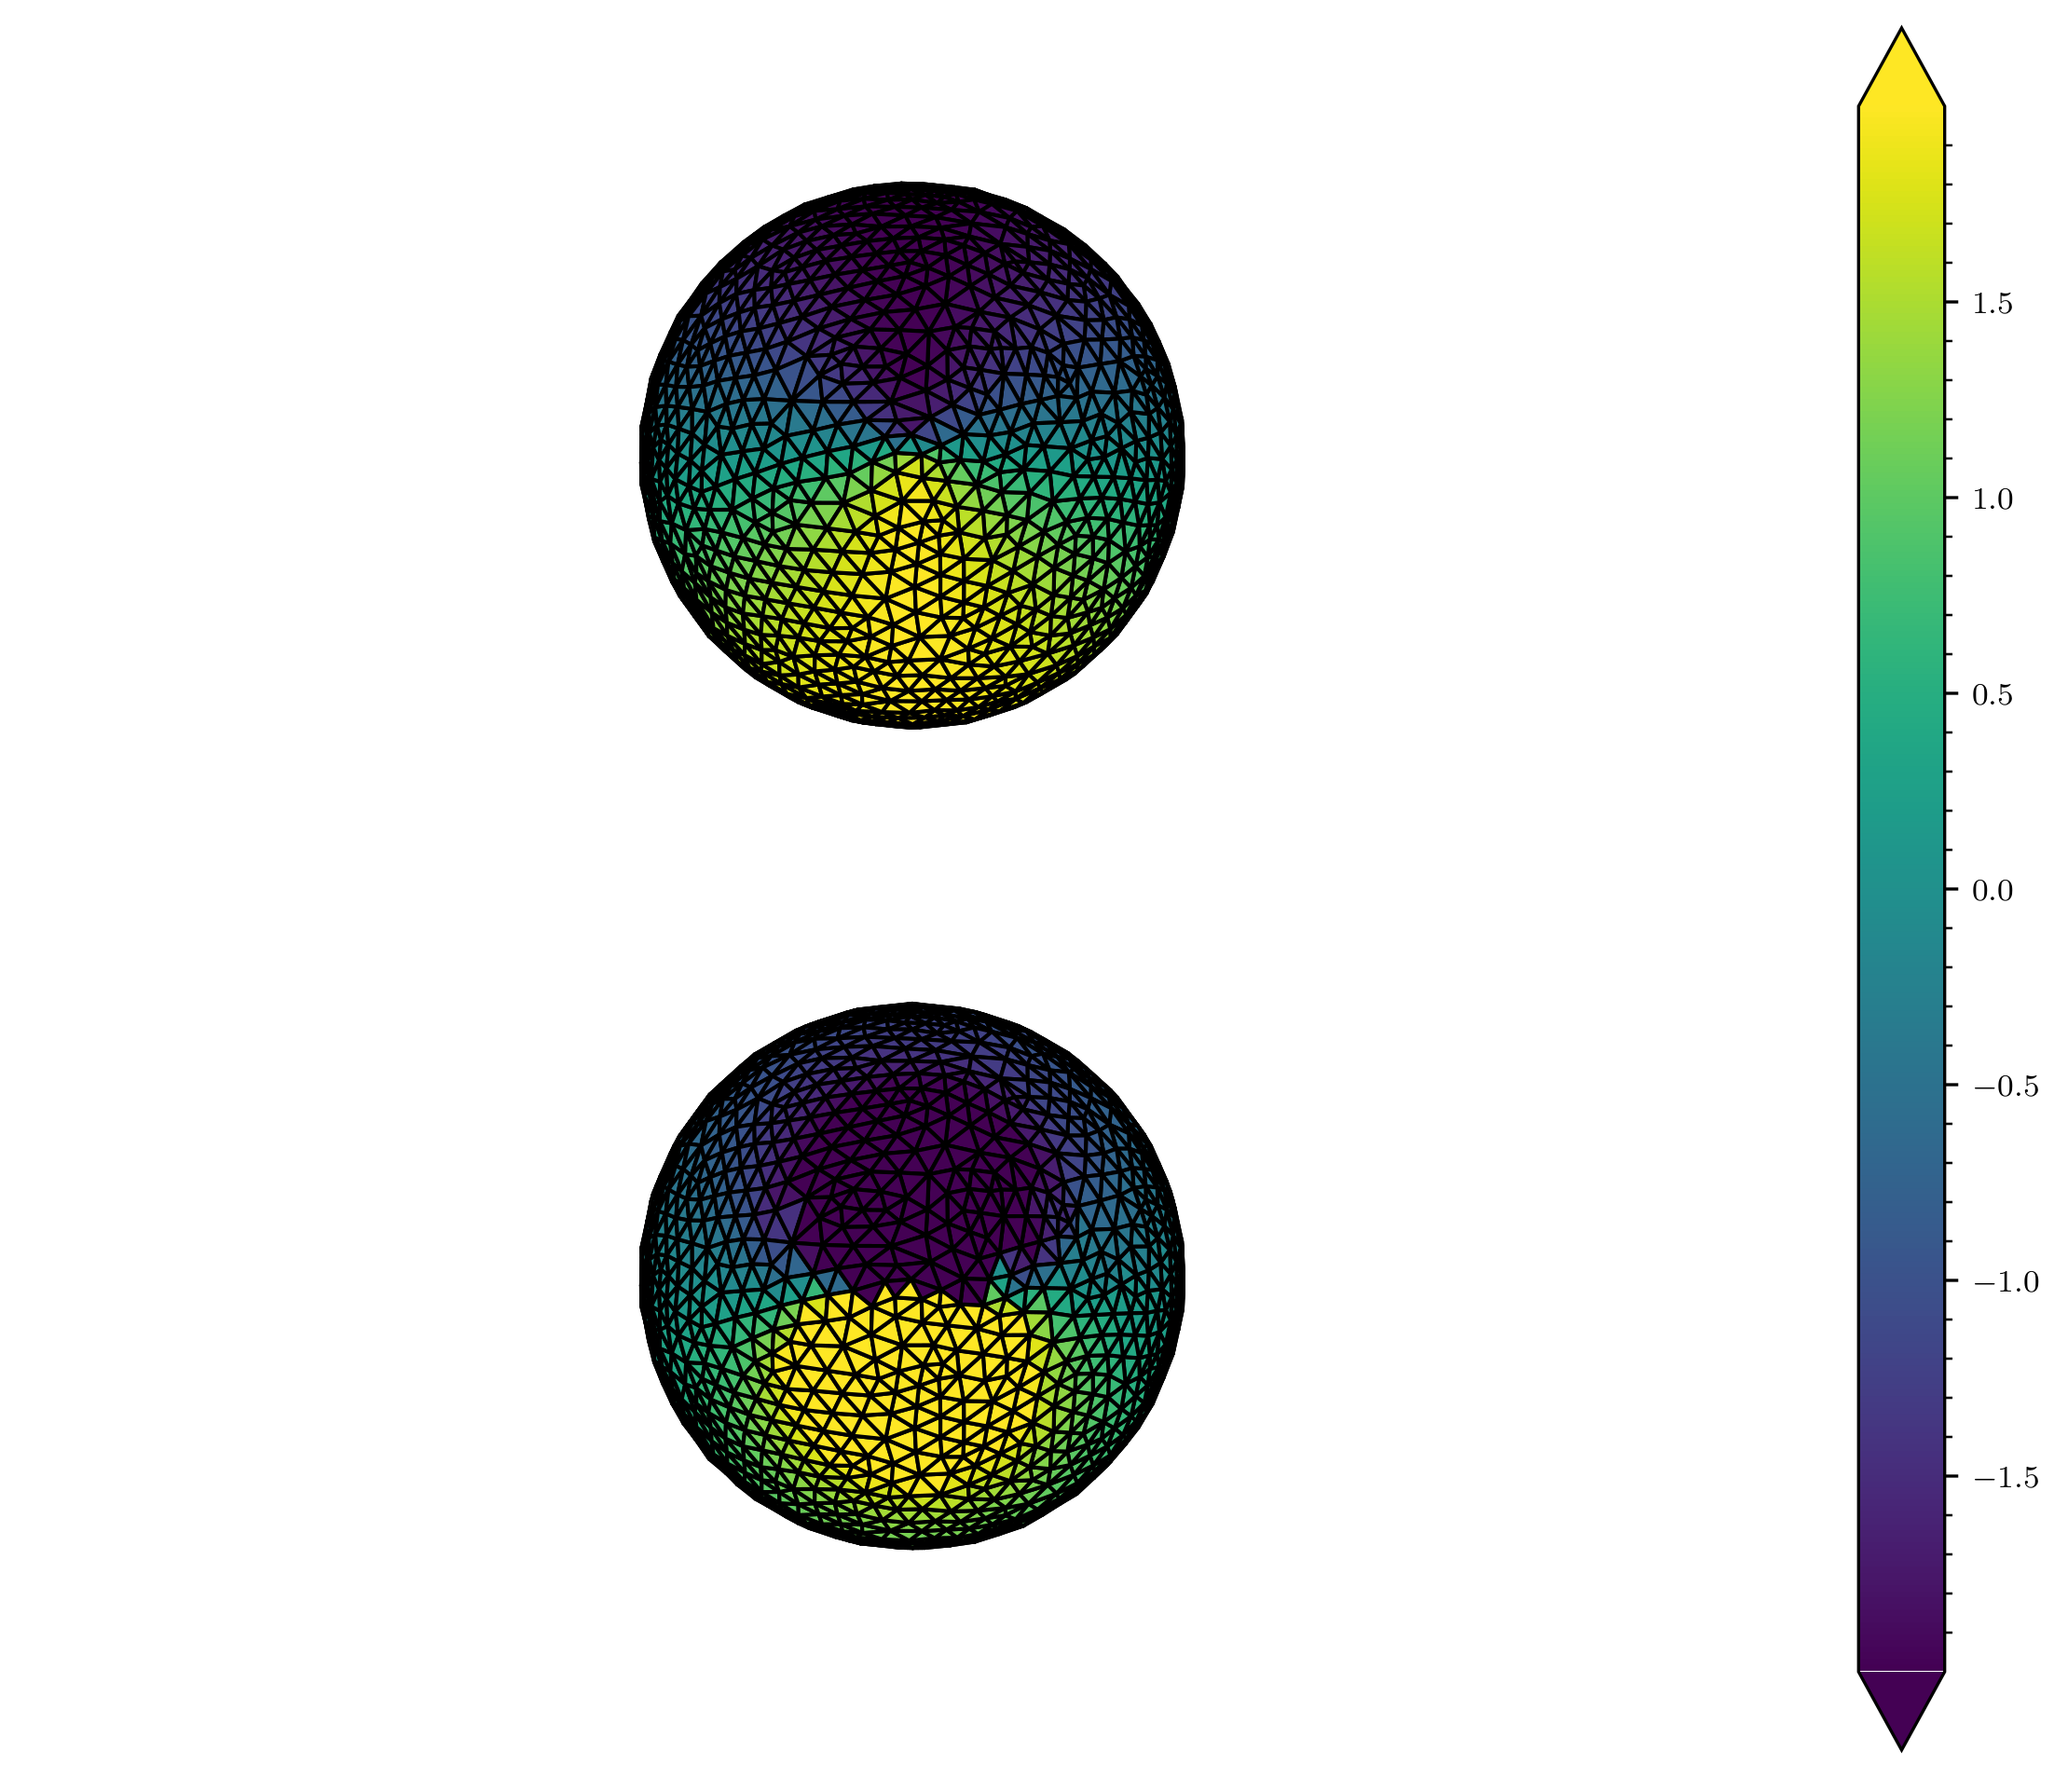
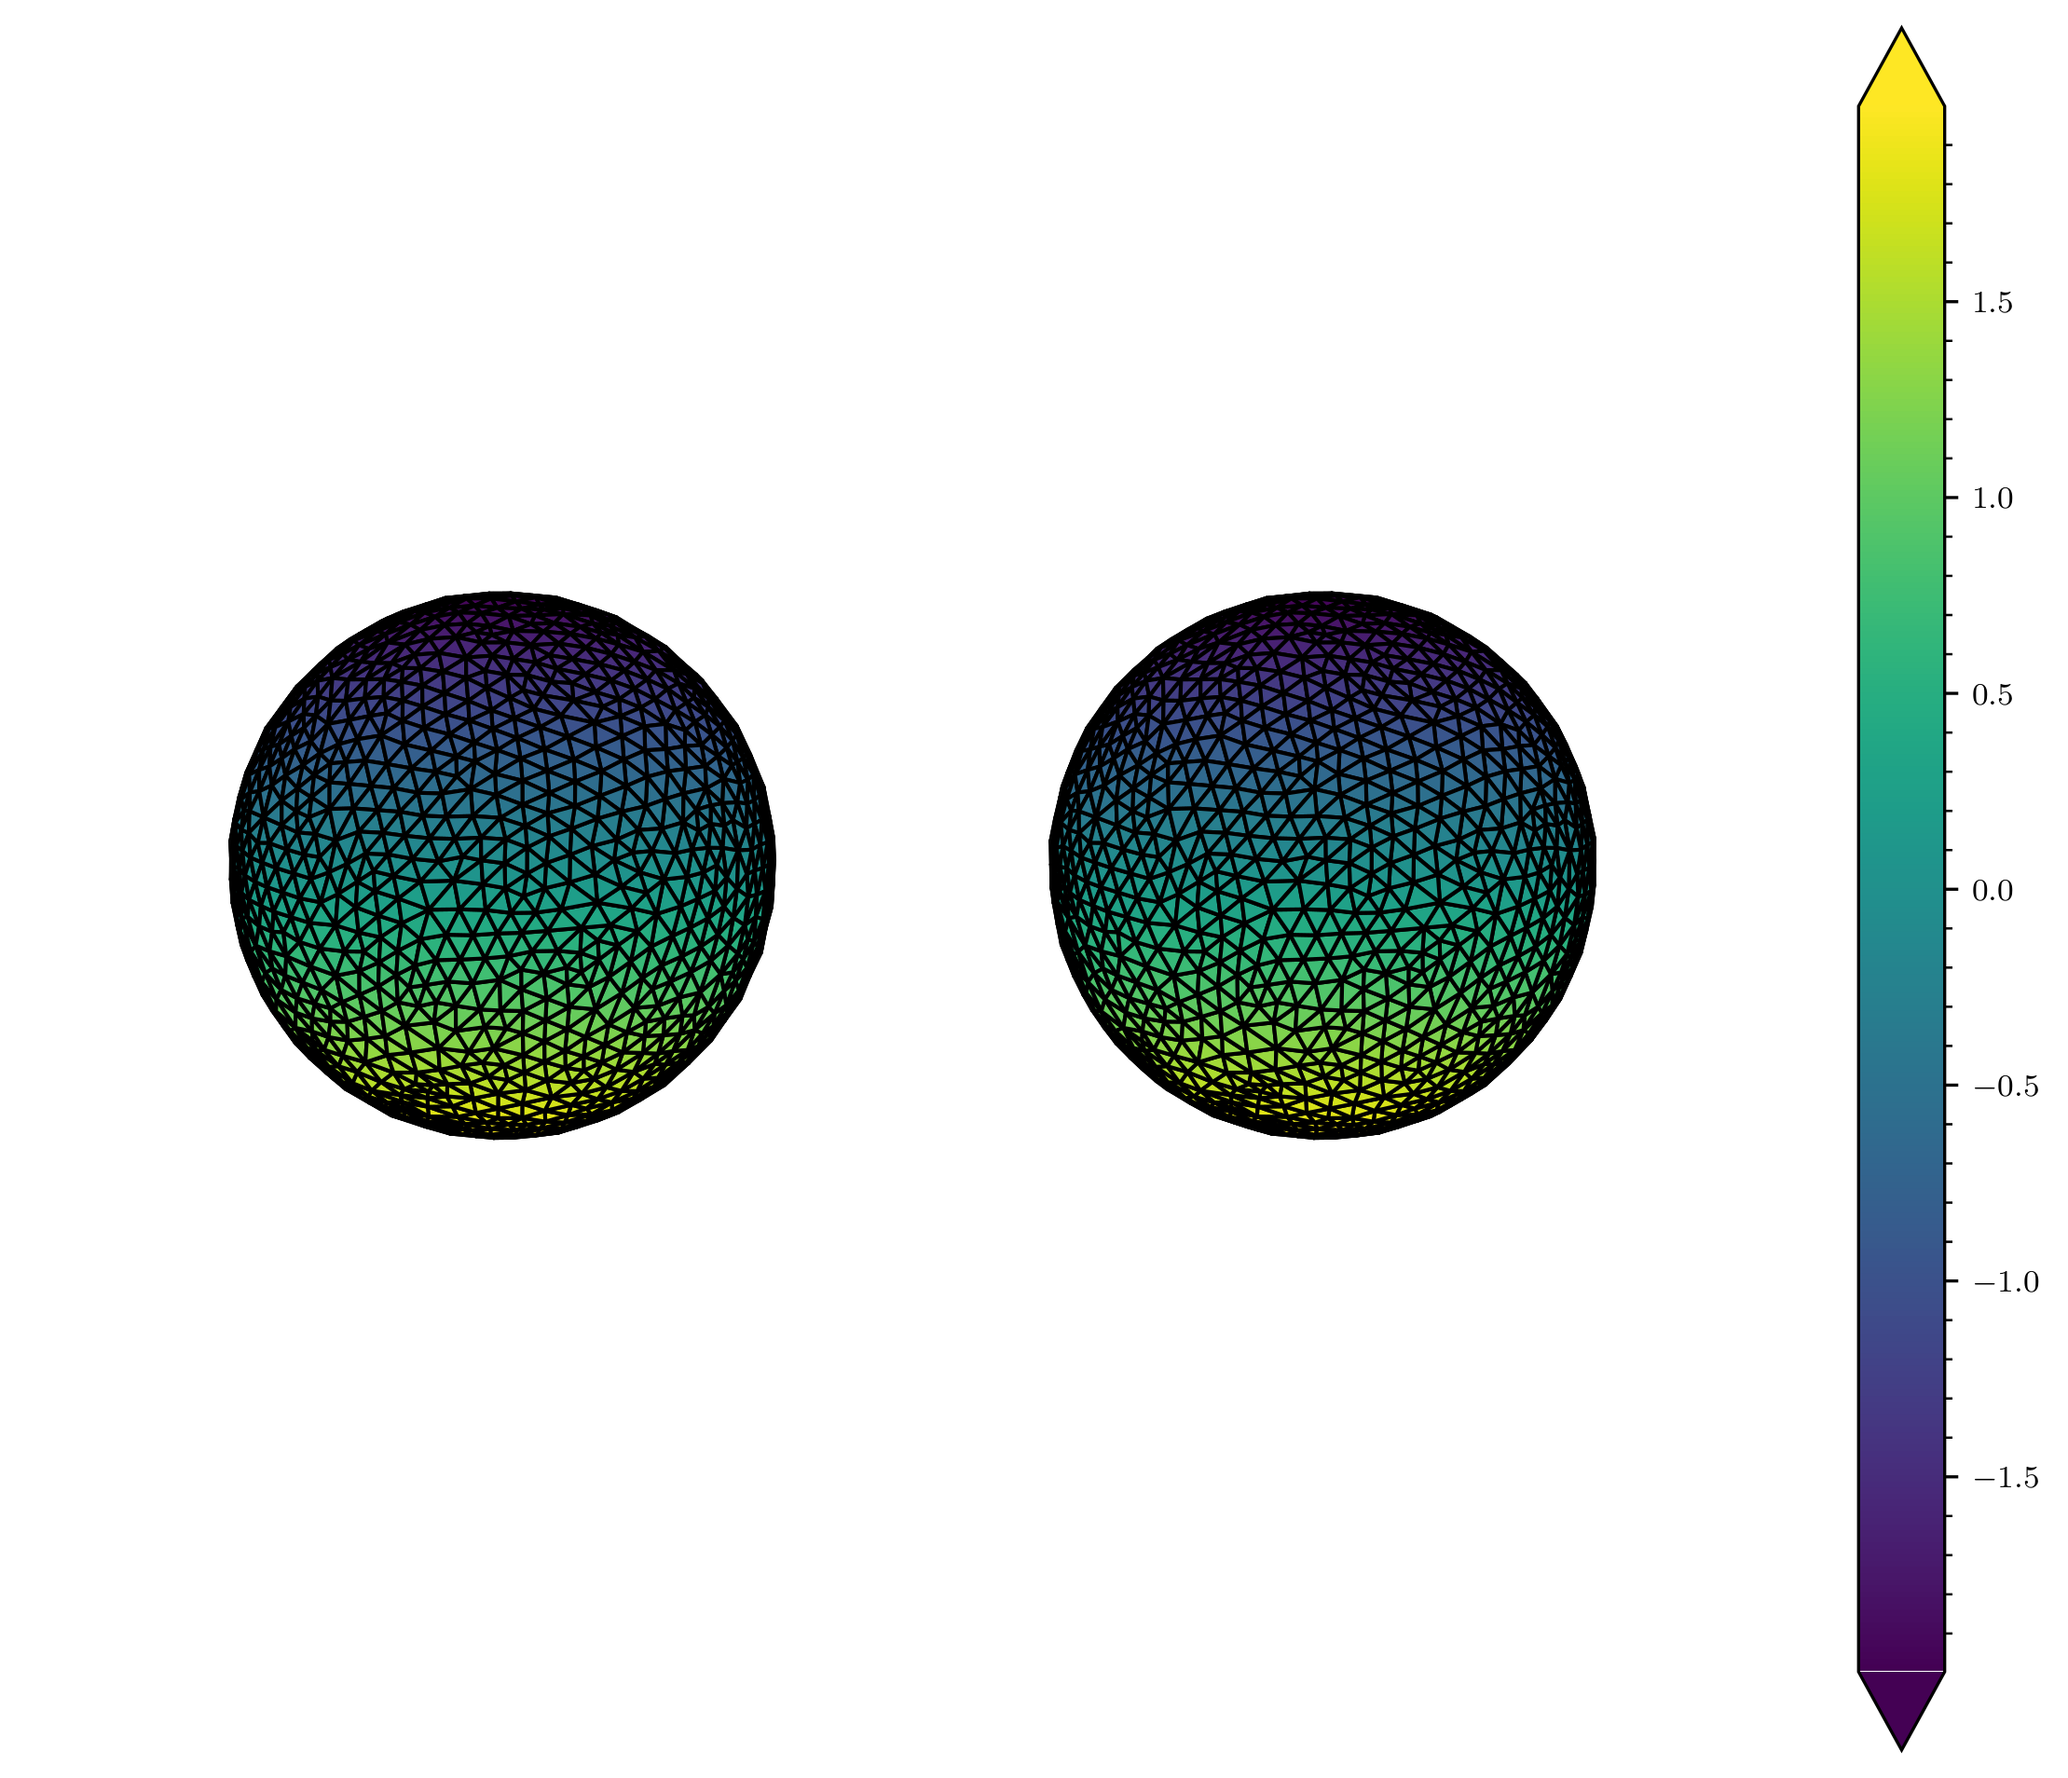
re run example after fix geometric_tools

Changed region(s): [[0.0933, 0.0928, 0.7774, 0.8968]]

diff --git a/examples/cotan.py b/examples/cotan.py
@@ -36,9 +36,7 @@ M = sl.mass(operators.mixed).tocsc()
 S = sl.stiffness(operators.cotan)
 L = sp.sparse.linalg.inv(M) @ S
 
-Plotter.set_export()
-
-p = Plotter(False, figsize=(10,8))
+p = Plotter(figsize=(10,8))
 p.add_trisurf(
     np.asarray(model.vertices),
     np.asarray(model.triangles),
@@ -56,7 +54,7 @@ p.add_trisurf(
     vmax=lf.max(),
     translate=(3,0,0)
 )
-p.camera(view=(-90,0,0), zoom=1.),
+p.camera(view=(0,90,0), zoom=1.),
 p.save(folder='figs/', name=filename)
 
 Plotter.show()

diff --git a/examples/null.py b/examples/null.py
@@ -8,8 +8,6 @@ from geometric_plotter import Plotter
 from isotropic_remesher import IsotropicRemesher
 import pathlib 
 
-Plotter.set_export()
-
 filename = pathlib.Path(__file__).stem
 
 path = pathlib.Path('data/mesh.npz')
@@ -41,7 +39,7 @@ L = sp.sparse.linalg.inv(M) @ S
 lf = L@f
 vmin, vmax = lf.min(), lf.max()
 
-p = Plotter(False, figsize=(5,5))
+p = Plotter(figsize=(5,5))
 p.add_trisurf(
     *data,
     vertex_values=lf,
